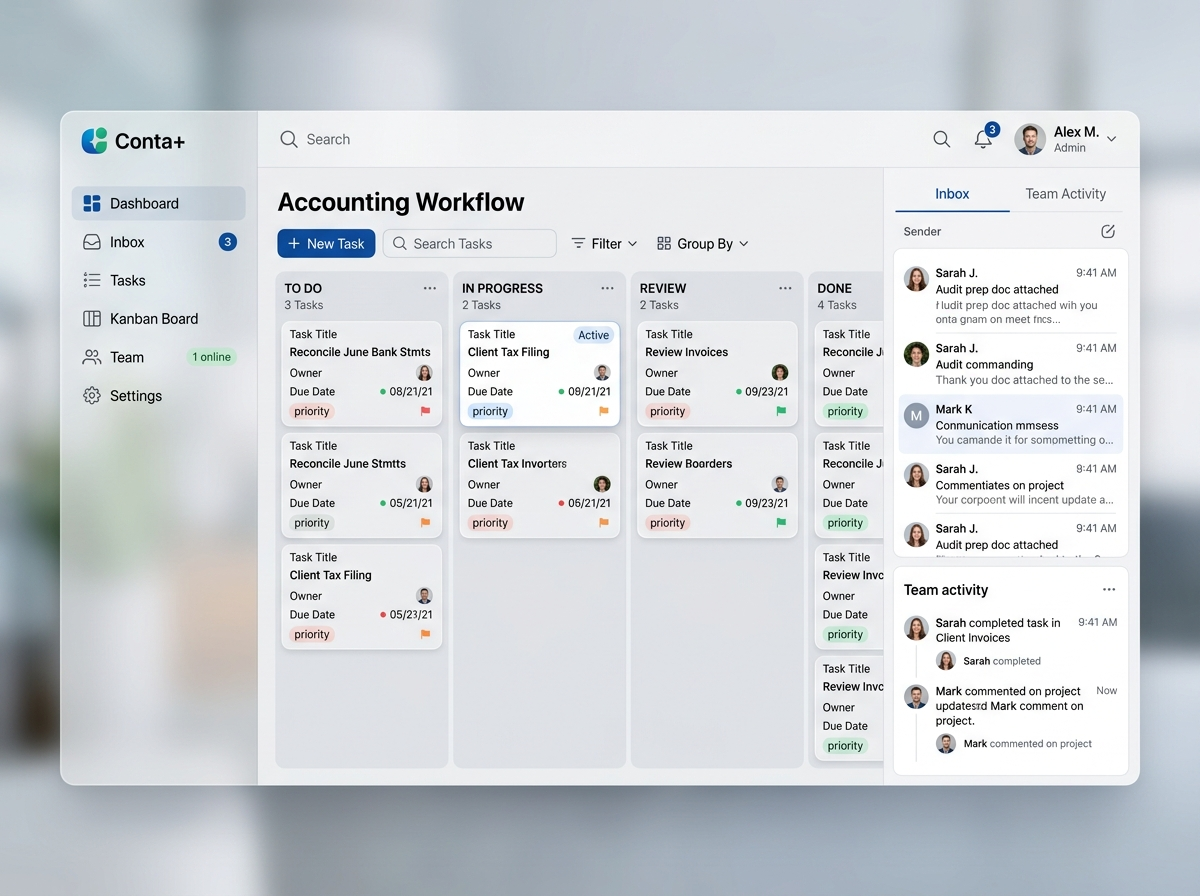
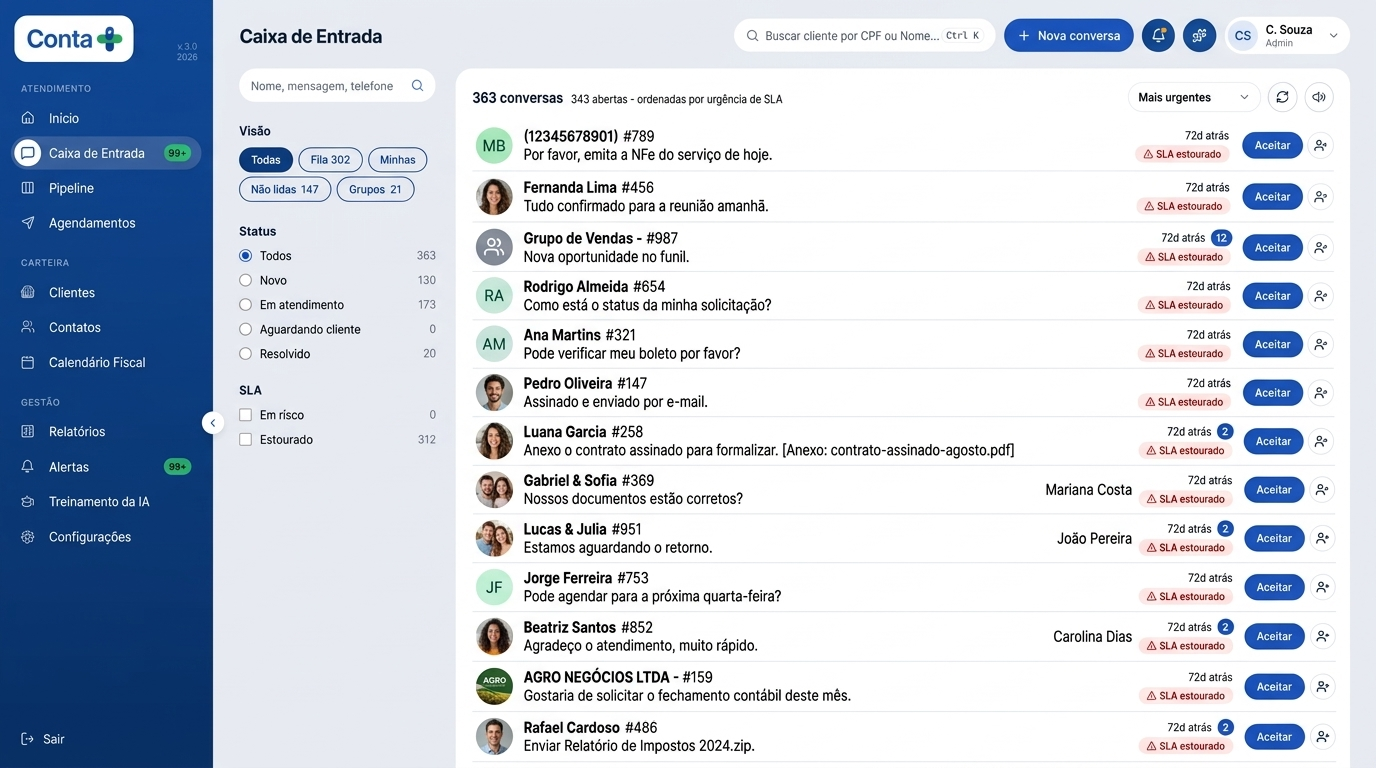
feat: volta com a imagem na hero usando mockup fiel anonimizado

diff --git a/src/pages/LandingPage.tsx b/src/pages/LandingPage.tsx
@@ -119,6 +119,10 @@ export default function App() {
             Como apoiamos o Empreenda Hub <ChevronDown size={16} className="-rotate-90" />
           </a>
         </div>
+
+        <div className="mt-20 relative w-full max-w-5xl aspect-video md:aspect-[16/10] bg-[#f5f5f7] rounded-[40px] shadow-2xl overflow-hidden border border-gray-200">
+          <img src="/tela-sistema.jpg" alt="Tela do sistema Conta+" className="absolute inset-0 w-full h-full object-cover" />
+        </div>
       </section>
 
       {/* 3. Problema (Bento Box Minimalista) */}
